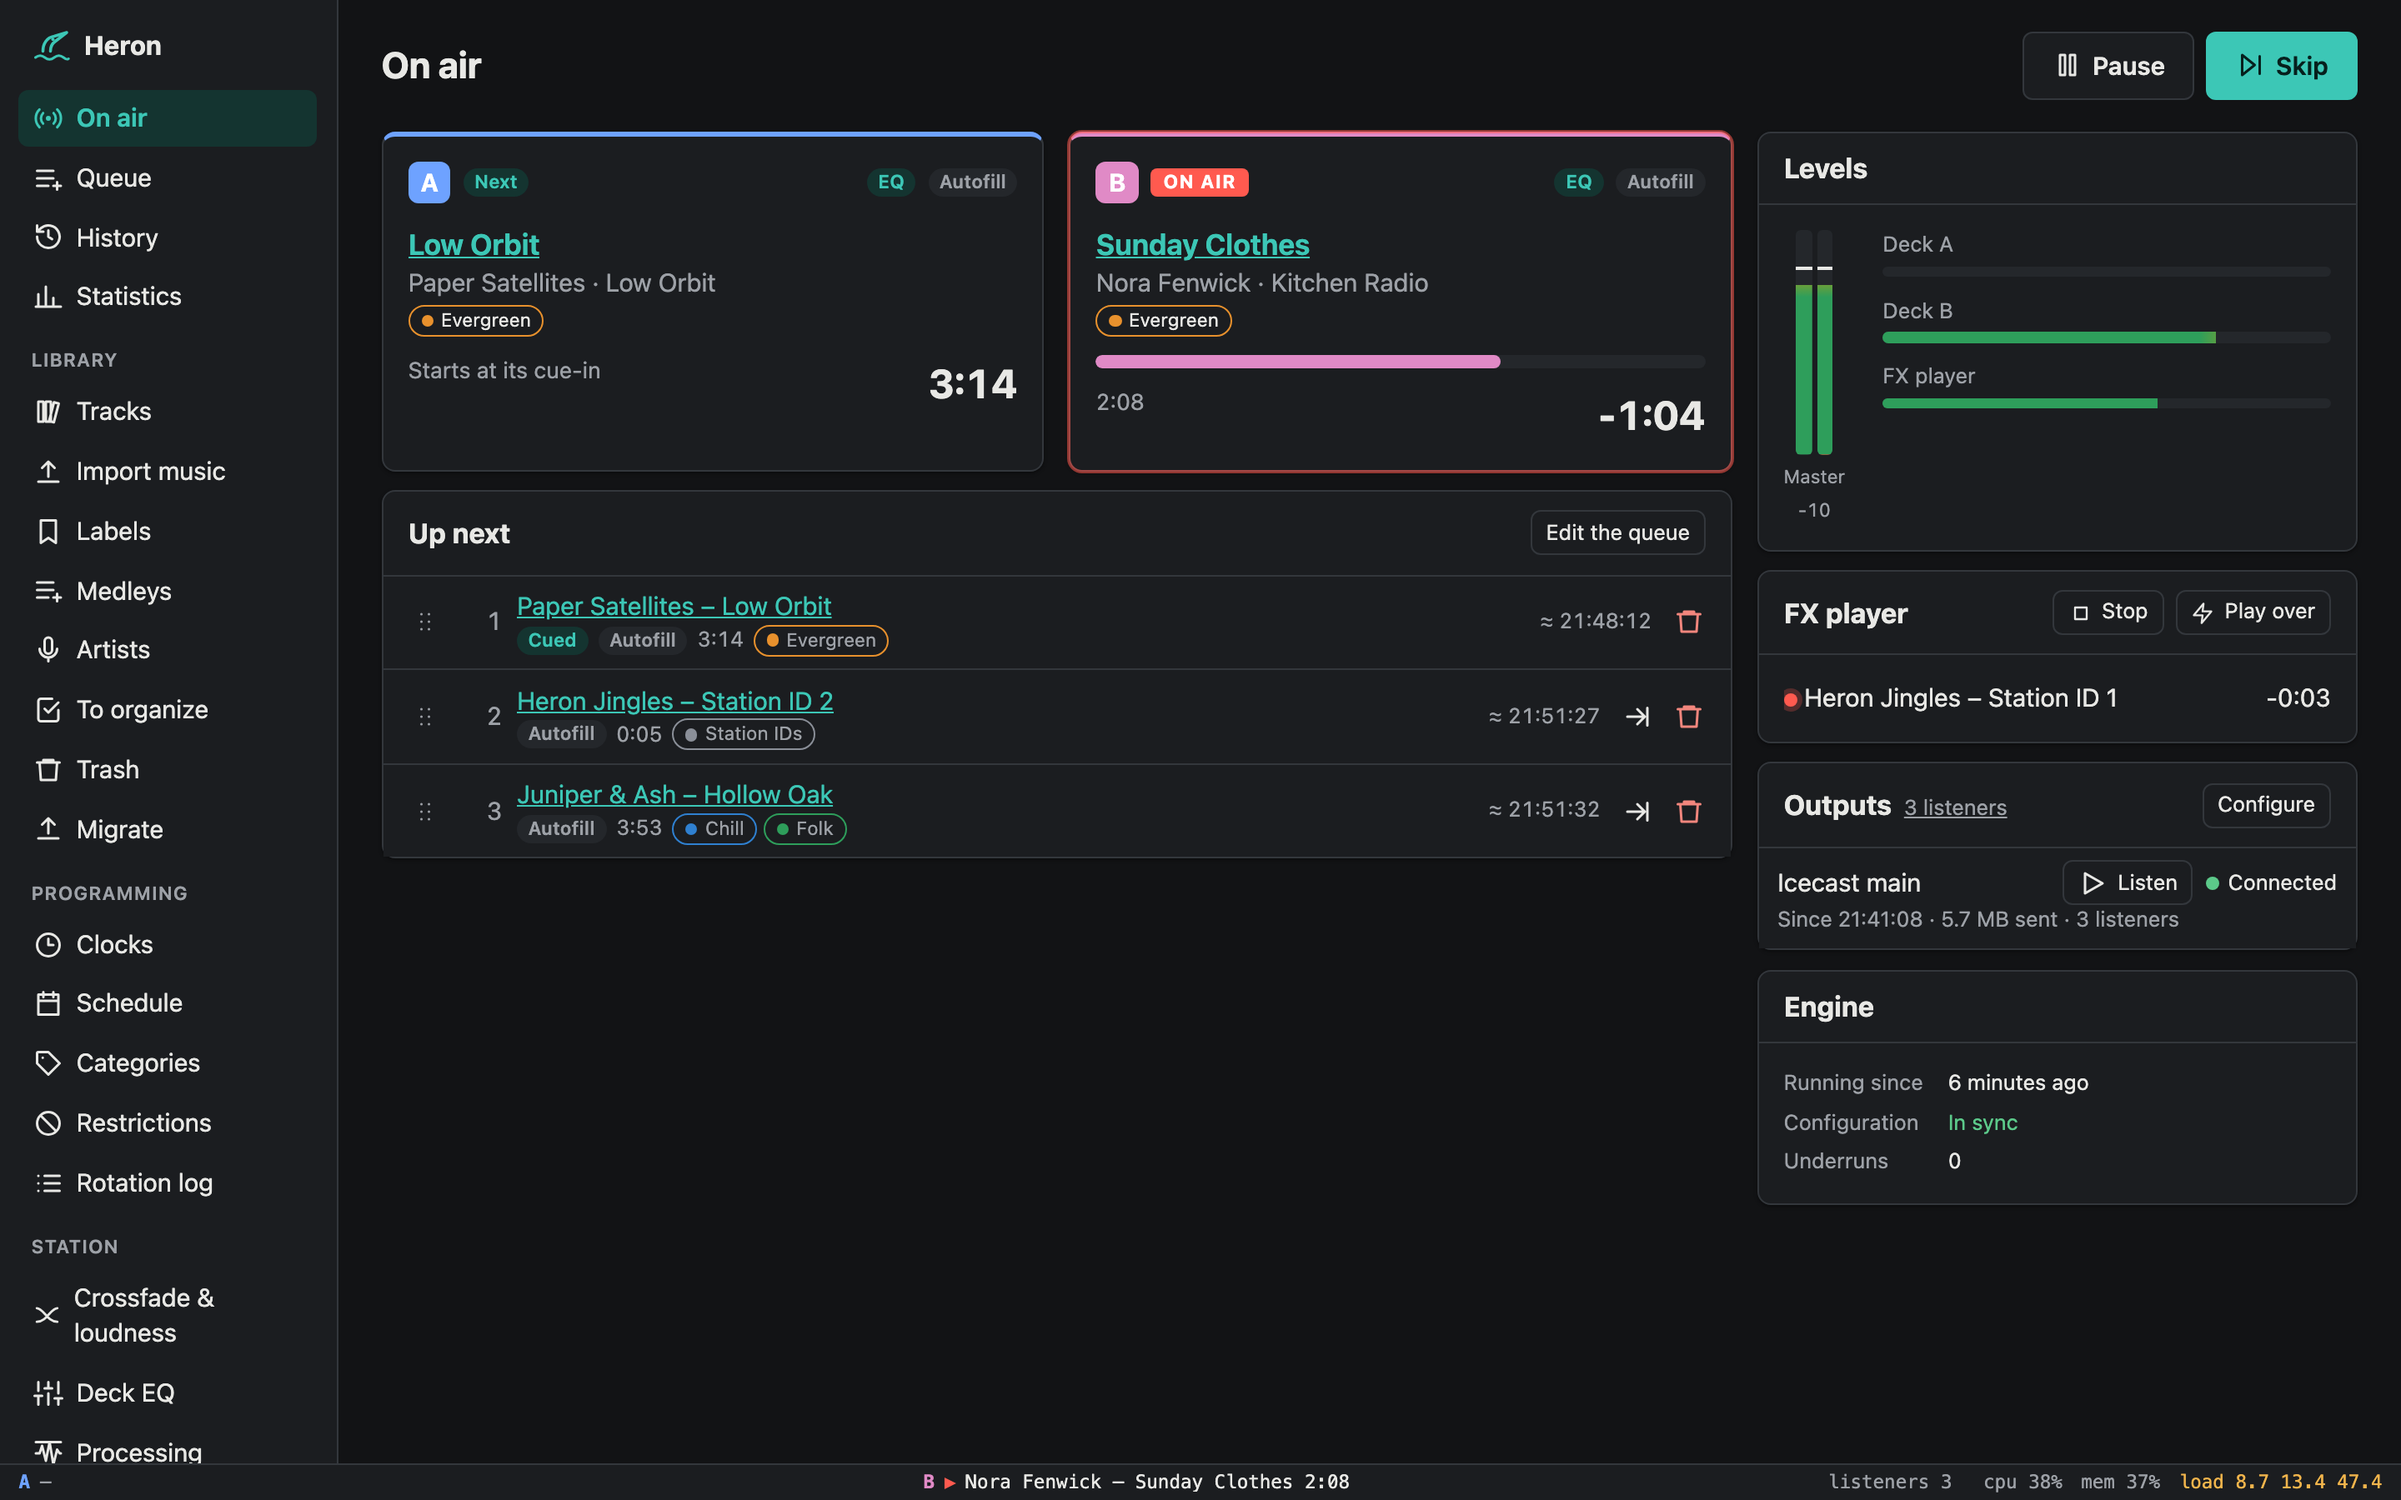
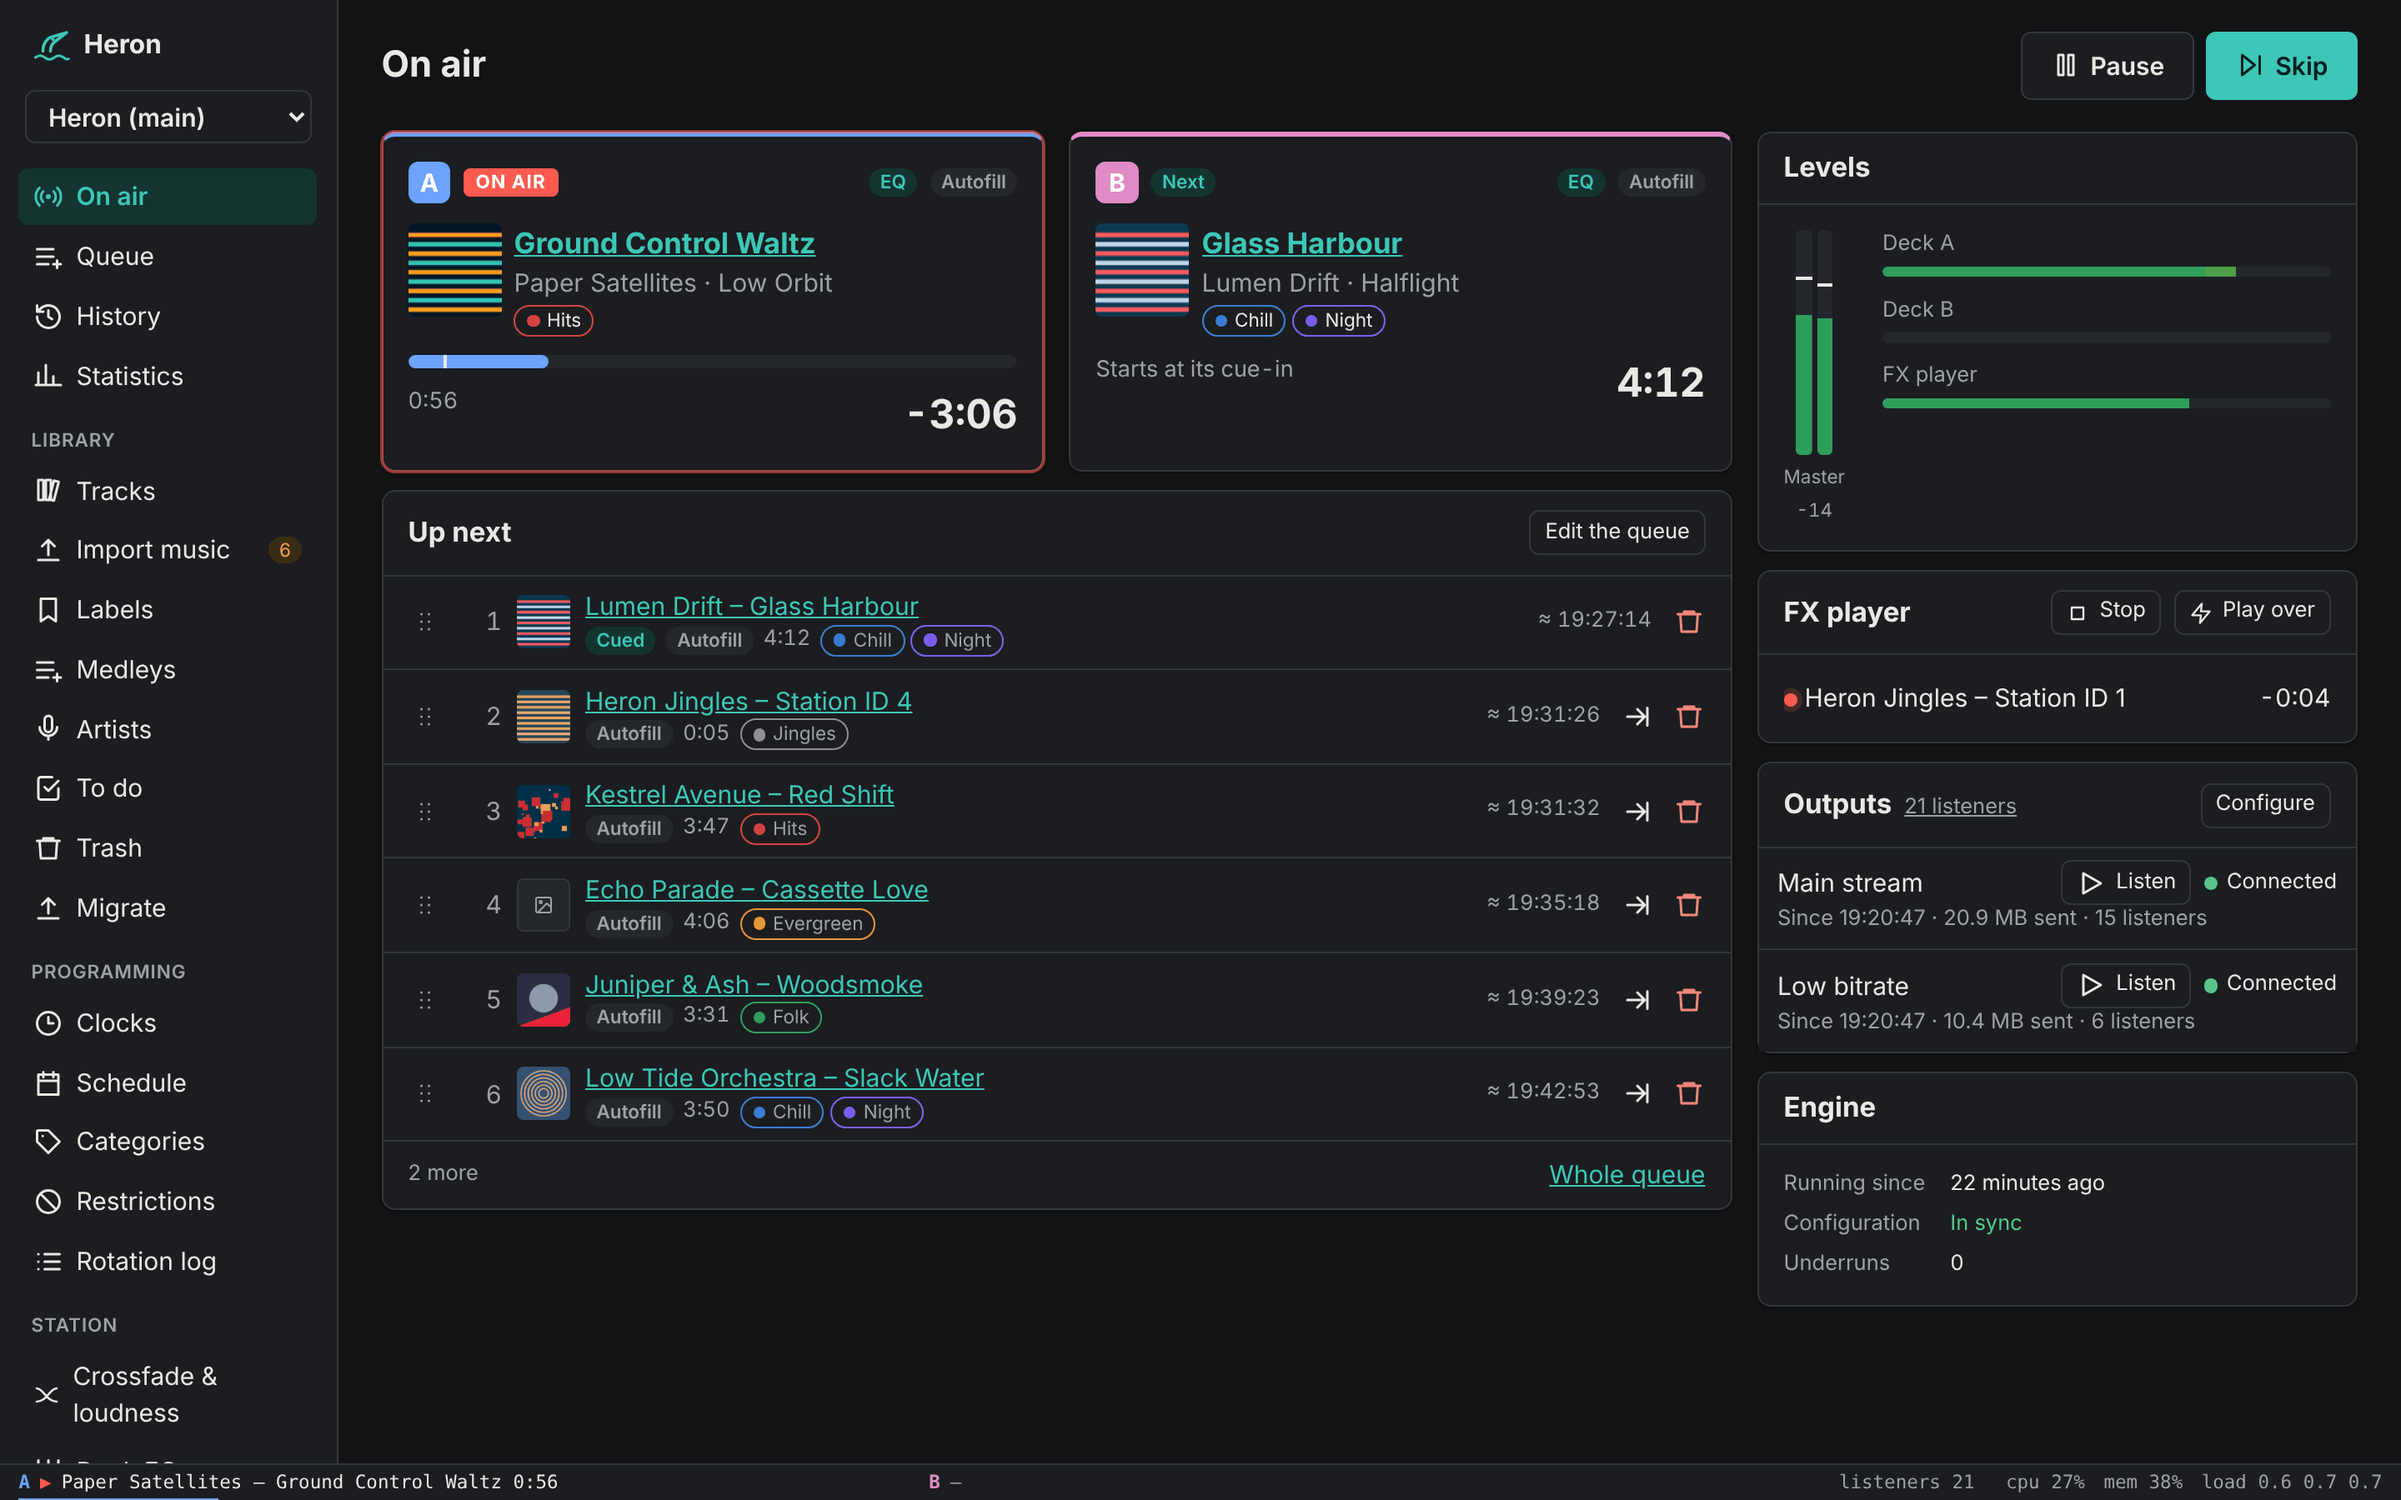
docs: refresh the README screenshots, add Statistics and To do
The screenshots show the pages as they are on main: covers, the track
page in tabs, settings in tabs with the rotation in sections, outputs
with stream servers, users with their second factor. Two new ones: the
Statistics page and the To do page.

diff --git a/README.md b/README.md
@@ -4,7 +4,7 @@ A modern, self-hosted **radio automation system** for Linux. Heron plays music 2
 
 The name comes from "air on" sounding like *héron*: keeping the air on, 24/7.
 
-![The On air page: decks A and B with their categories, the next tracks, levels, the FX player counting down to a liner, outputs and the engine's state](docs/images/on-air.png)
+![The On air page: decks A and B with their covers and categories, the next tracks, levels, the FX player counting down to a jingle, outputs with their listeners and the engine's state](docs/images/on-air.png)
 
 > **Status:** early development, but it plays. Heron imports and analyzes a music library, takes new music by upload or through an incoming folder and files it once you import it, plays a queue with crossfades to Icecast servers, picks the music with categories, clocks and a weekly schedule, keeps the air on when the database, the API or the library goes away, and when Heron itself is upgraded, tells websites and bots what plays through signed webhooks and public now-playing endpoints, counts its listeners from the stream servers, shapes the sound with a deck EQ and the master chain of an AGC and multiband processors, mixes medleys of song hooks and liners, runs several stations from one library, each with its own engine and schedules, backs itself up every day, and is operated from a web interface in English, French, Spanish or German. Next: more encoders, sinks and live DJ (M11). See the [roadmap](docs/roadmap/README.md).
 
@@ -35,13 +35,14 @@ Heron runs on Linux, amd64 and arm64, down to a Raspberry Pi.
 
 | | |
 |---|---|
-| [![A clock: its slots, the hour drawn as it will sound, a simulation](docs/images/clock-editor.png)](docs/images/clock-editor.png) **Clock editor:** slots by drag and drop, the hour as it will sound | [![A track: waveform with cue-in, cue-out, the end of the intro, the hook and where the next track starts](docs/images/track.png)](docs/images/track.png) **Track:** waveform, cue points, intro and hook, crossfade, analysis |
+| [![A clock: its slots, the hour drawn as it will sound, a simulation](docs/images/clock-editor.png)](docs/images/clock-editor.png) **Clock editor:** slots by drag and drop, the hour as it will sound | [![A track's Sound tab: waveform with cue-in, cue-out, the end of the intro, the hook and where the next track starts, and a transition to try](docs/images/track.png)](docs/images/track.png) **Track:** sound, programming, details and plays in tabs; waveform, cue points, intro and hook, crossfade |
 | [![The week, hour by hour, painted with clocks](docs/images/schedule.png)](docs/images/schedule.png) **Schedule:** which clock runs at each hour of the week, and the schedules for seasons | [![The deck EQ: ten sliders and the response curve for the music, and for the FX player](docs/images/eq.png)](docs/images/eq.png) **Deck EQ:** the music and the FX player, heard as the sliders move |
 | [![The Processing page: the chain of blocks with its presets, input and output meters, the AGC's gain, and the gated AGC's settings](docs/images/agc.png)](docs/images/agc.png) **Processing:** the station's processing chain, block by block, with its meters and presets | [![The 5-band processor: crossovers, overdrive and, for each band, its gain reduction, mode, threshold, ratio, times and link](docs/images/agc-five-band.png)](docs/images/agc-five-band.png) **5-band processor:** each band's dynamics and live gain reduction, linked bands moving together |
-| [![A medley: its hooks and liners on a timeline, the liners over the music, the fade-out, the playhead](docs/images/medley.png)](docs/images/medley.png) **Medleys:** hooks and liners mixed into a track, on a timeline to listen to and adjust | [![The Import music page: an album waiting to be imported, with its paths and categories](docs/images/import-music.png)](docs/images/import-music.png) **Import music:** new music identified, checked and prepared before it is imported |
-| [![The rotation log: why each track was picked, from which clock and slot, the rules held or relaxed](docs/images/rotation-log.png)](docs/images/rotation-log.png) **Rotation log:** why each track was picked, and a simulation of the day or the week | [![The outputs: an Icecast stream connected with its listeners, the encoder profiles](docs/images/outputs.png)](docs/images/outputs.png) **Outputs:** stream servers and encoders, live state and listeners |
+| [![A medley: its hooks and liners on a timeline, the liners over the music, each part to listen to](docs/images/medley.png)](docs/images/medley.png) **Medleys:** hooks and liners mixed into a track, on a timeline to listen to and adjust | [![The Import music page: an album waiting to be imported, with its paths and categories](docs/images/import-music.png)](docs/images/import-music.png) **Import music:** new music identified, checked and prepared before it is imported |
+| [![The rotation log: why each track was picked, from which clock and slot, the rules held or relaxed](docs/images/rotation-log.png)](docs/images/rotation-log.png) **Rotation log:** why each track was picked, and a simulation of the day or the week | [![The outputs: two streams connected with their listeners, the stream server they share, the encoder profiles](docs/images/outputs.png)](docs/images/outputs.png) **Outputs:** stream servers and encoders, live state and listeners |
 | [![The stations, each with the variable of its engine's address](docs/images/stations.png)](docs/images/stations.png) **Several stations:** each with its own engine, chosen at the top of the menu | [![The categories, with badges for the stations each one belongs to](docs/images/categories-stations.png)](docs/images/categories-stations.png) **Categories per station:** the library is shared, each category belongs to one station or several |
-| [![The rotation settings of a station, with separation rules across stations](docs/images/rules-across-stations.png)](docs/images/rules-across-stations.png) **Rules across stations:** keep an artist or a track apart from what the other stations play | [![The users, with a shared role and a role on each station](docs/images/roles-per-station.png)](docs/images/roles-per-station.png) **Roles per station:** operator on one station, viewer on another, or no access |
+| [![The Programming tab of a station's settings: the rotation in sections, down to the separation rules across stations](docs/images/rules-across-stations.png)](docs/images/rules-across-stations.png) **Rules across stations:** keep an artist or a track apart from what the other stations play | [![The users, with a shared role, a role on each station and their second factor](docs/images/roles-per-station.png)](docs/images/roles-per-station.png) **Roles per station:** operator on one station, viewer on another, or no access |
+| [![The Statistics page: listeners now and today's curve, the audience over 30 days (unique listeners, listening time, quarter-hour audience, peak, sessions) and the session lengths](docs/images/statistics.png)](docs/images/statistics.png) **Statistics:** the audience as the stream servers count it, against the previous period | [![The To do page: its tabs for the tracks to identify, the missing intros, hooks and covers, organizing and changes, here the songs with no intro](docs/images/to-do.png)](docs/images/to-do.png) **To do:** what the library still needs, tab by tab, each track fixed on its page |
 | [![The On air page in the dark theme](docs/images/on-air-dark.png)](docs/images/on-air-dark.png) **Dark theme** | <p align="center"><img src="docs/images/on-air-phone.png" alt="The On air page at phone width" width="200"></p> **Phone width** |
 
 The screenshots show demo stations with generated music by fictional artists.
